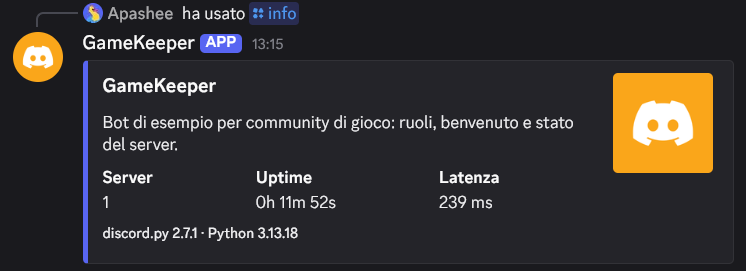
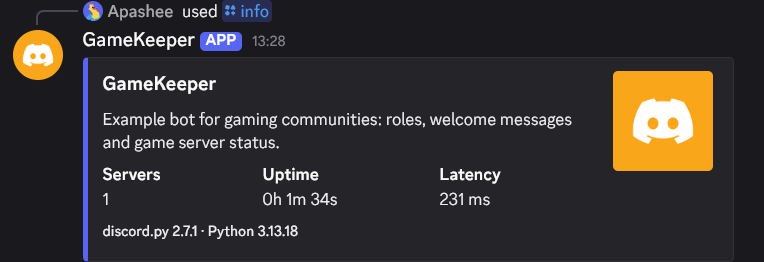
README: retake screenshots with the bot in English

diff --git a/README.md b/README.md
@@ -6,7 +6,7 @@ welcome messages and Minecraft server status. Written in Python with
 
 | Button roles | Welcome new members |
 |---|---|
-| ![Role panel with buttons](docs/screenshots/ruoli.png) | ![Welcome message](docs/screenshots/benvenuto.png) |
+| ![Role panel with buttons](docs/screenshots/roles.png) | ![Welcome message](docs/screenshots/welcome.png) |
 
 | Minecraft server status | Bot info |
 |---|---|
